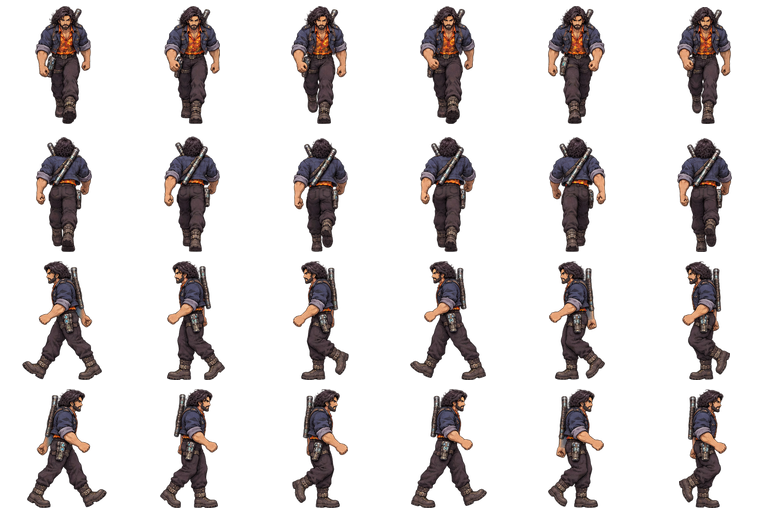
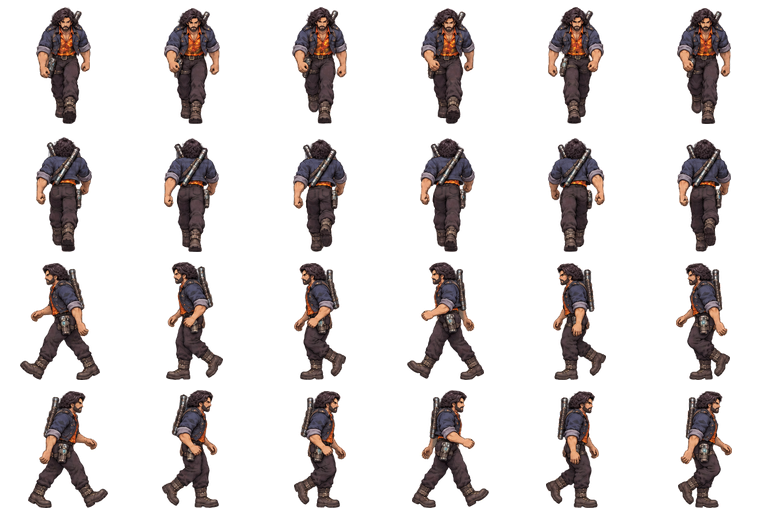
Atlas: new walk cycle for Erikk
Cut from the 6-frame turnaround sheet by atlas/tools/make_erikk_walk.py,
at the same cell size, scale and foot line as idle and run.

Claude-Session: https://claude.ai/code/session_01UTx8EbmVmsg1UuMrxG9WCd

diff --git a/atlas/tools/make_erikk_walk.py b/atlas/tools/make_erikk_walk.py
@@ -1,0 +1,72 @@
+"""Erikk's walk cycle from the 6-frame turnaround sheet.
+
+Usage: python3 atlas/tools/make_erikk_walk.py
+Reads atlas/tools/sources/erikk-walk-sheet.png (rows: front, back, side facing
+right; six frames each). Writes public/atlas/assets/player/erikk_walk.png:
+6 x 4 cells of 128 x 128, rows Down/Up/Left/Right, feet at y 124, the same
+layout and scale as the idle and run sheets. Left is the side row mirrored.
+"""
+import numpy as np
+from PIL import Image
+
+SRC = "atlas/tools/sources/erikk-walk-sheet.png"
+OUT = "public/atlas/assets/player/erikk_walk.png"
+ROWS = [(0, 293), (293, 588), (588, 887)]
+HEIGHT = 118  # px tall in a 128 cell, matching idle/run
+
+sheet = np.array(Image.open(SRC).convert("RGBA"))
+# Drop the faint red fringe the generator left around the figures.
+r, g, b, a = (sheet[..., i].astype(int) for i in range(4))
+fringe = (a < 230) & (r > g + 60) & (r > b + 60)
+sheet[..., 3] = np.where(fringe | (a < 24), 0, sheet[..., 3])
+img = Image.fromarray(sheet, "RGBA")
+
+
+def premul_resize(im, size):
+    x = np.array(im, dtype=np.float32) / 255.0
+    x[..., :3] *= x[..., 3:4]
+    p = np.array(Image.fromarray((x * 255).astype(np.uint8), "RGBA").resize(size, Image.LANCZOS), dtype=np.float32) / 255.0
+    al = np.maximum(p[..., 3:4], 1e-3)
+    p[..., :3] = np.where(p[..., 3:4] > 1e-3, p[..., :3] / al, 0)
+    return Image.fromarray((np.clip(p, 0, 1) * 255).astype(np.uint8), "RGBA")
+
+
+def figures(y0, y1):
+    """Split a row into its six figures by the empty columns between them."""
+    band = sheet[y0:y1, :, 3] > 40
+    cols = band.sum(0) > 3
+    runs, start = [], None
+    for x, on in enumerate(list(cols) + [False]):
+        if on and start is None:
+            start = x
+        elif not on and start is not None:
+            if x - start > 20:
+                runs.append((start, x))
+            start = None
+    assert len(runs) == 6, (y0, runs)
+    out = []
+    for x0, x1 in runs:
+        ys = np.where(band[:, x0:x1].any(1))[0]
+        out.append((x0, y0 + ys.min(), x1, y0 + ys.max() + 1))
+    return out
+
+
+rows = [figures(*r) for r in ROWS]
+tallest = max(b[3] - b[1] for row in rows for b in row)
+scale = HEIGHT / tallest
+out = Image.new("RGBA", (6 * 128, 4 * 128), (0, 0, 0, 0))
+for src_row, dst_rows in [(0, [0]), (1, [1]), (2, [3, 2])]:
+    for i, (x0, y0, x1, y1) in enumerate(rows[src_row]):
+        fig = img.crop((x0, y0, x1, y1))
+        w, h = max(1, round(fig.width * scale)), max(1, round(fig.height * scale))
+        small = premul_resize(fig, (w, h))
+        # Centre on the head and shoulders so the stride doesn't jitter.
+        top = np.array(small)[: h * 2 // 5, :, 3] > 60
+        xs = np.where(top.any(0))[0]
+        cx = (xs.min() + xs.max() + 1) / 2 if len(xs) else w / 2
+        for d in dst_rows:
+            f = small if d != 2 else small.transpose(Image.FLIP_LEFT_RIGHT)
+            fx = cx if d != 2 else w - cx
+            out.alpha_composite(f, (i * 128 + round(64 - fx), d * 128 + 124 - h))
+out.save(OUT)
+print("scale", round(scale, 3))
